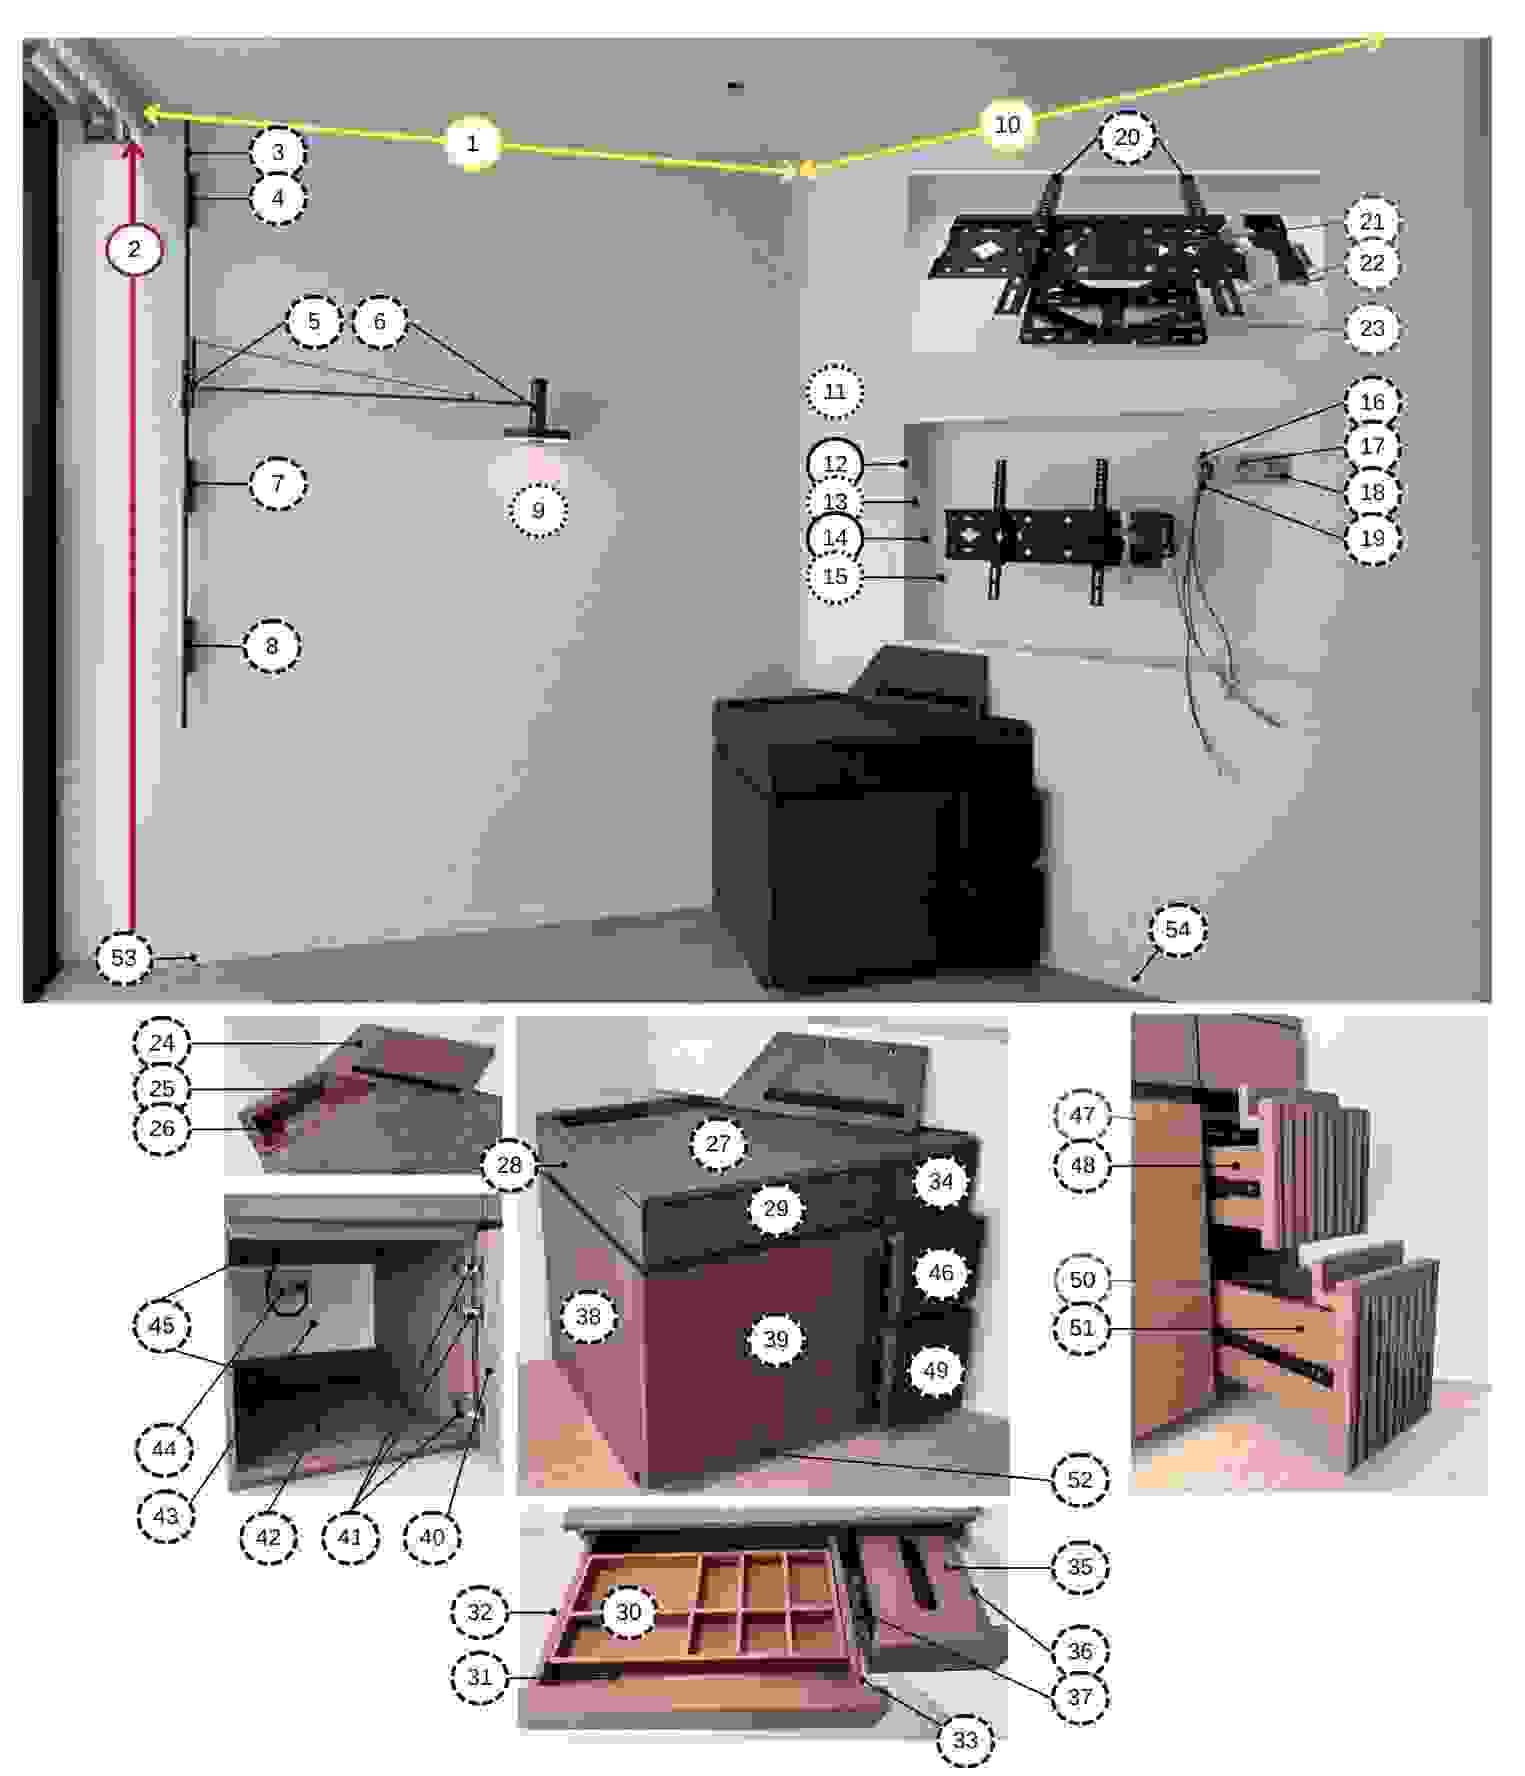
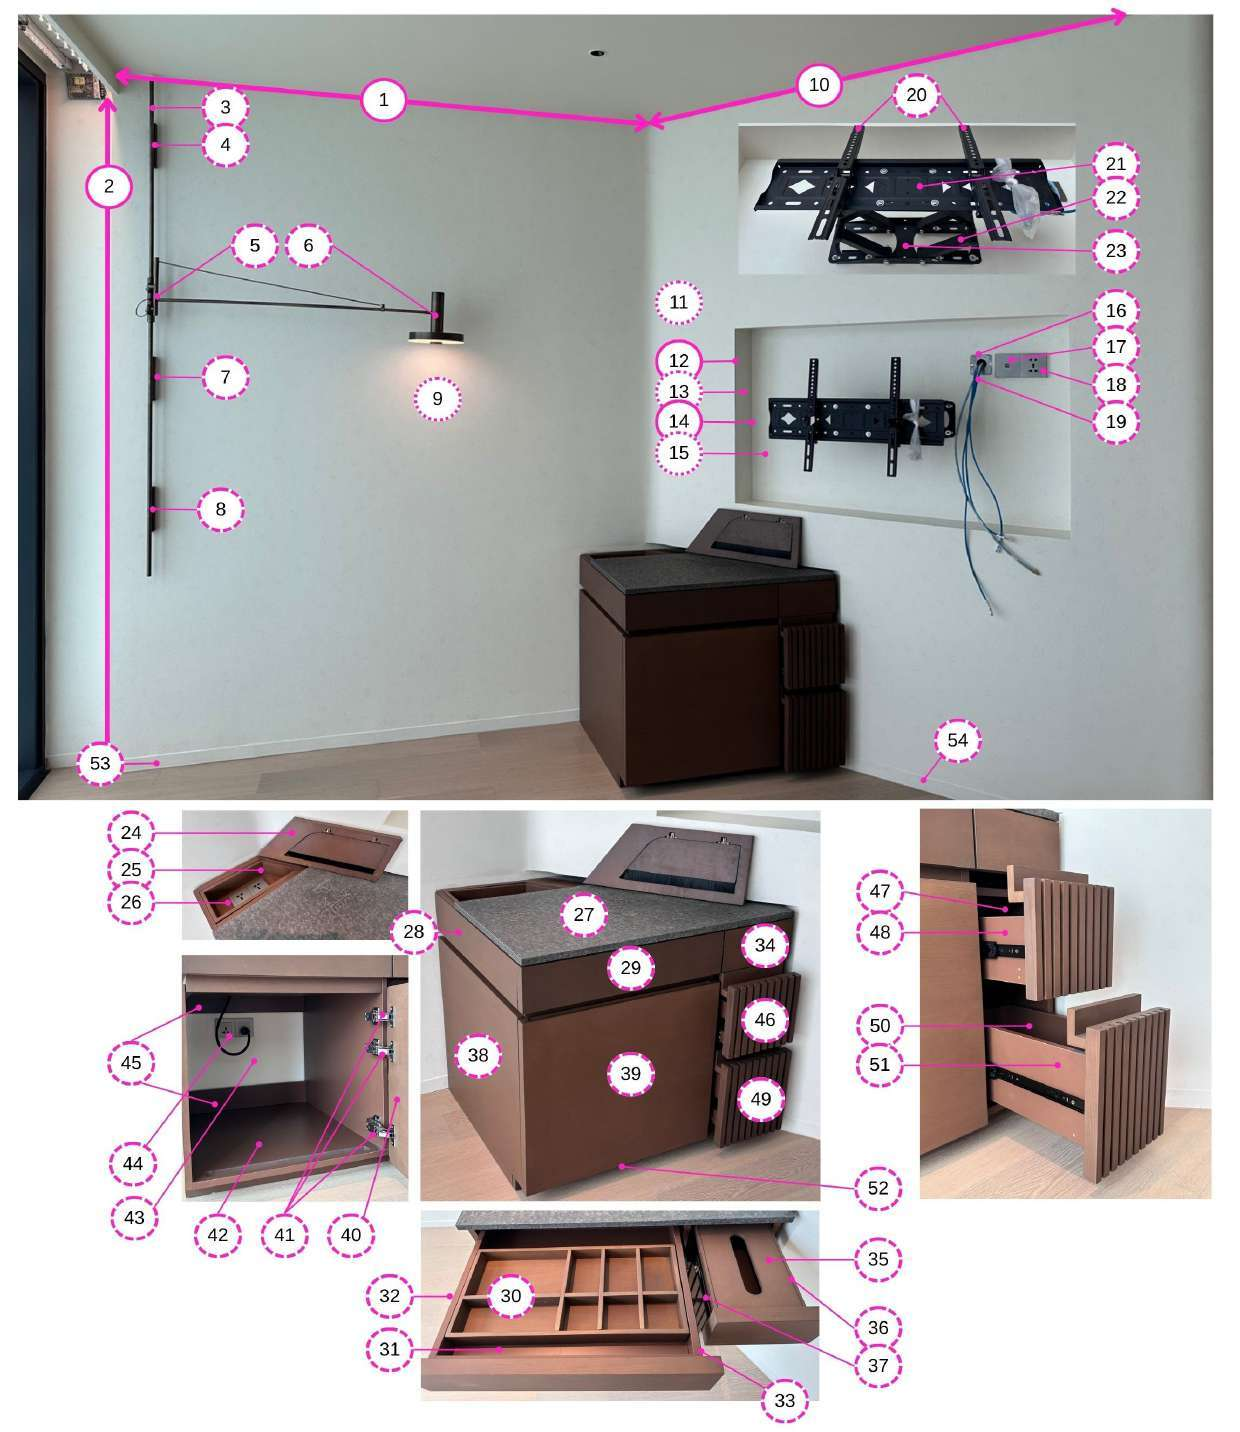
Replace 4 more reference photos; rename category 3 display label
Bed, Mirror, Minibar and Ceiling now use the per-category exports.
Magenta callouts went from 0.4-2.4% of saturated pixels to 34-73%.
Nine of ten categories now have correct colour; only Floor still comes
from the combined export.

Category 3 displays as ที่วางกระเป๋า instead of ม้านั่ง / วางกระเป๋า.

Claude-Session: https://claude.ai/code/session_01ALkYgxG4hS1Sx2jvTHdaBP

Changed region(s): [[0.0, 0.0, 0.9806, 1.0]]

diff --git a/js/checklist.js b/js/checklist.js
@@ -170,7 +170,7 @@ const CATEGORIES = [
     ],
   },
   {
-    id: 'luggage', name: 'Luggage', th: 'ม้านั่ง / วางกระเป๋า',
+    id: 'luggage', name: 'Luggage', th: 'ที่วางกระเป๋า',
     img: 'img/cat03.jpg', imgW: 1240, imgH: 1753,
     pins: [],
     items: [
@@ -214,7 +214,7 @@ const CATEGORIES = [
   },
   {
     id: 'bed', name: 'Bed', th: 'เตียง',
-    img: 'img/cat04.jpg', imgW: 1450, imgH: 1800,
+    img: 'img/cat04.jpg', imgW: 1240, imgH: 1516,
     notes: [
       'เส้นปะคือเส้นแบ่งขอบเขต',
       'switch ทุกอันหากกดยาก = defect',
@@ -293,7 +293,7 @@ const CATEGORIES = [
   },
   {
     id: 'mirror', name: 'Mirror', th: 'กระจก / หน้าต่าง',
-    img: 'img/cat05.jpg', imgW: 1800, imgH: 1273,
+    img: 'img/cat05.jpg', imgW: 1240, imgH: 849,
     pins: [],
     items: [
       { no: 1, th: 'เส้นขอบผนัง vertical - 01' },
@@ -347,7 +347,7 @@ const CATEGORIES = [
   },
   {
     id: 'minibar', name: 'Minibar', th: 'มินิบาร์ / ทีวี',
-    img: 'img/cat06.jpg', imgW: 1525, imgH: 1776,
+    img: 'img/cat06.jpg', imgW: 1240, imgH: 1432,
     pins: [],
     items: [
       { no: 1, th: 'เส้นขอบผนัง horzontal - 01' },
@@ -568,7 +568,7 @@ const CATEGORIES = [
   },
   {
     id: 'ceiling', name: 'Ceiling', th: 'ฝ้าเพดาน',
-    img: 'img/cat09.jpg', imgW: 1536, imgH: 1443,
+    img: 'img/cat09.jpg', imgW: 1240, imgH: 1144,
     pins: [],
     items: [
       { no: 1, th: 'ผิวฝ้ายิปซัม' },

diff --git a/README.md b/README.md
@@ -10,7 +10,7 @@
 |---|---|---:|---|---|---:|
 | 1 | ประตูทางเข้า (Door) | 72 | 6 | มินิบาร์ / ทีวี (Minibar) | 54 |
 | 2 | อ่างล้างหน้า (Sink) | 49 | 7 | ห้องอาบน้ำ (Shower) | 78 |
-| 3 | ม้านั่ง / วางกระเป๋า (Language) | 36 | 8 | ห้องน้ำ / สุขภัณฑ์ (Toilet) | 68 |
+| 3 | ที่วางกระเป๋า (Luggage) | 36 | 8 | ห้องน้ำ / สุขภัณฑ์ (Toilet) | 68 |
 | 4 | เตียง (Bed) | 66 | 9 | ฝ้าเพดาน (Ceiling) | 16 |
 | 5 | กระจก / หน้าต่าง (Mirror) | 47 | 10 | พื้น (Floor) | 2 |
 
@@ -160,7 +160,7 @@ const CATEGORIES = [
   {
     id: 'door',                       // ห้ามซ้ำ และห้ามแก้ถ้ามีข้อมูลค้างอยู่
     name: 'Door', th: 'ประตูทางเข้า',
-    img: 'img/cat01.jpg', imgW: 1368, imgH: 1800,
+    img: 'img/cat01.jpg', imgW: 1240, imgH: 1687,
     notes: ['...'],                   // หมายเหตุใต้รูป (ไม่บังคับ)
     pins: [],                         // พิกัดหมุด — ได้จาก tag.html
     items: [
@@ -194,7 +194,7 @@ css/app.css           สไตล์ทั้งหมด รวมสไตล
 js/checklist.js       ← เนื้อหาฟอร์ม 488 จุดตรวจ (แก้ไฟล์นี้เพื่อเปลี่ยนเนื้อหา)
 js/app.js             ตรรกะ: เซฟในเครื่อง, คิวออฟไลน์, ส่งขึ้น Sheet, ตัวดูรูปซูมได้
 js/tag.js             ตรรกะของ tag.html
-img/cat01–cat10.jpg   รูปถ่ายอ้างอิงพร้อมหมายเลขจุดตรวจ (รวม ~240 KB)
+img/cat01–cat10.jpg   รูปถ่ายอ้างอิงพร้อมหมายเลขจุดตรวจ (รวม ~1.3 MB)
 apps-script/Code.gs   สคริปต์ฝั่ง Google Sheet
 ```
 
@@ -231,21 +231,23 @@ apps-script/Code.gs   สคริปต์ฝั่ง Google Sheet
 
 ---
 
-## ⚠ รูปอ้างอิงในตอนนี้สีเพี้ยน
+## เรื่องสีของรูปอ้างอิง
 
-รูปใน `img/` ถอดมาจาก PDF ที่ export จาก Google Sheet ซึ่ง **ตัว PDF ทำสีรูปเพี้ยนไปแล้ว**
-เส้นและวงกลมกำกับที่ควรเป็นสีชมพูบานเย็นกลายเป็นแดงเข้ม/เหลือง และภาพถ่ายซีดลงจนดูเป็นโทนเทา
+รูป 9 จาก 10 หมวดใช้ไฟล์ที่ export แยกรายหมวดมา **สีถูกต้อง** แล้ว
+เหลือ **Floor (`cat10.jpg`)** หมวดเดียวที่ยังใช้รูปจาก PDF รวม ซึ่งสีเพี้ยน
 
-ตรวจสอบแล้วว่าไม่ใช่ปัญหาตอนถอดไฟล์:
+สาเหตุที่ PDF รวมทำสีเพี้ยน — ตรวจแล้วว่าไม่ใช่ปัญหาตอนถอดไฟล์:
 - JPEG ที่ฝังใน PDF เป็น YCbCr 3 แชนเนลปกติ ไม่มี ICC profile ไม่มี CMYK
 - content stream ของ PDF มีแต่สี **ดำ/ขาว/เทา** เท่านั้น — เส้นสีชมพูจึงไม่ใช่ vector แต่ถูกอบมาในรูปแล้ว
 - วัดพิกเซลอิ่มสีในรูปที่ฝังมา: โทนชมพู/บานเย็น = **0.0%** ขณะที่ในรูปต้นฉบับเป็นสีหลักของภาพ
 
 สรุปคือสีหายไปตอน Google Sheet export เป็น PDF กู้คืนจาก PDF ไม่ได้
 
-**วิธีแก้:** เอารูปต้นฉบับจากในชีทมาวางทับใน `img/` ใช้ชื่อเดิม `cat01.jpg` … `cat10.jpg`
-(ลำดับตามตารางหมวดด้านบนของไฟล์นี้) แนะนำให้กว้างอย่างน้อย 1600 px และไม่ต้องย่อก่อน
-วางทับแล้วใช้ได้เลย ไม่ต้องแก้โค้ด
+**วิธีแก้:** export หมวดนั้นออกมาแยกไฟล์จากในชีท แล้ววางทับใน `img/` ใช้ชื่อเดิม
+(ลำดับตามตารางหมวดด้านบนของไฟล์นี้) วางทับแล้วใช้ได้เลย ไม่ต้องแก้โค้ด
+
+รูปถูกก๊อปเข้ามาโดยไม่บีบอัดซ้ำ เพราะทดลองแล้วการ re-encode ที่คุณภาพ 0.88
+ทำให้ไฟล์ 217 KB เหลือ 25 KB ซึ่งทำลายความคมของตัวเลขกำกับจุดตรวจ
 
 ---
 
@@ -255,5 +257,5 @@ apps-script/Code.gs   สคริปต์ฝั่ง Google Sheet
 ฟอนต์ไทยในไฟล์ต้นฉบับเก็บวรรณยุกต์บางตัวไว้ในช่วง Private Use Area จึงต้อง map กลับเป็น Unicode ปกติตอนถอด
 ผลลัพธ์ตรวจทานกับภาพหน้าเอกสารแล้วไม่พบข้อความผิดเพี้ยน แต่ถ้าเจอคำไหนสะกดแปลก แก้ได้ที่ `js/checklist.js` โดยตรง
 
-ชื่อหมวดที่ 3 ในไฟล์ต้นฉบับเขียนว่า **"Language"** ซึ่งน่าจะพิมพ์ผิดจาก "Luggage" (รูปเป็นม้านั่งวางกระเป๋า)
-ระบบจึงคงชื่อ `Language` ไว้ในคอลัมน์ที่บันทึกลง Sheet เพื่อให้ตรงกับของเดิม แต่แสดงในแอปเป็น "ม้านั่ง / วางกระเป๋า"
+ชื่อหมวดที่ 3 ในชีทต้นฉบับเขียนว่า **"Language"** ซึ่งพิมพ์ผิดจาก **"Luggage"**
+(ยืนยันจากชื่อไฟล์รูปที่ได้รับมา) ระบบจึงใช้ `Luggage` ในคอลัมน์ที่บันทึกลง Sheet และแสดงในแอปว่า "ที่วางกระเป๋า"
